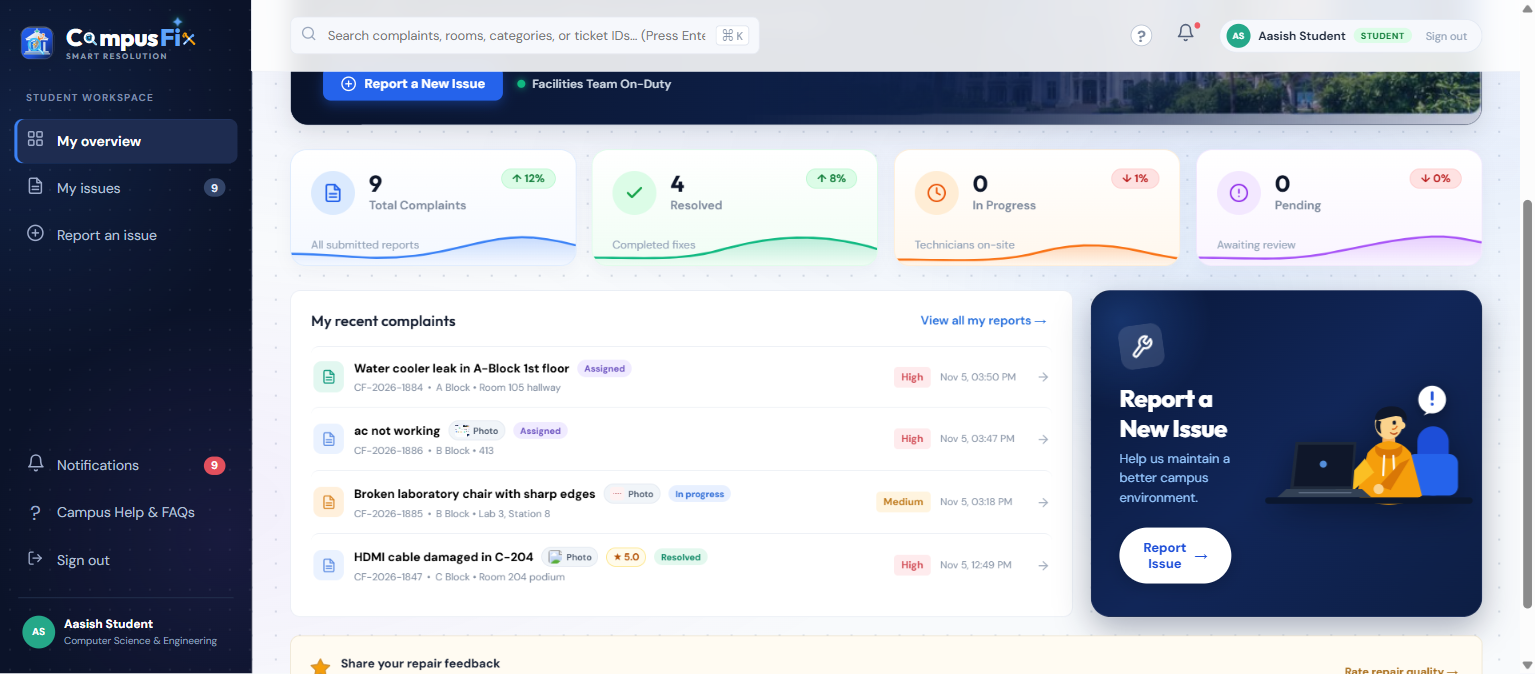
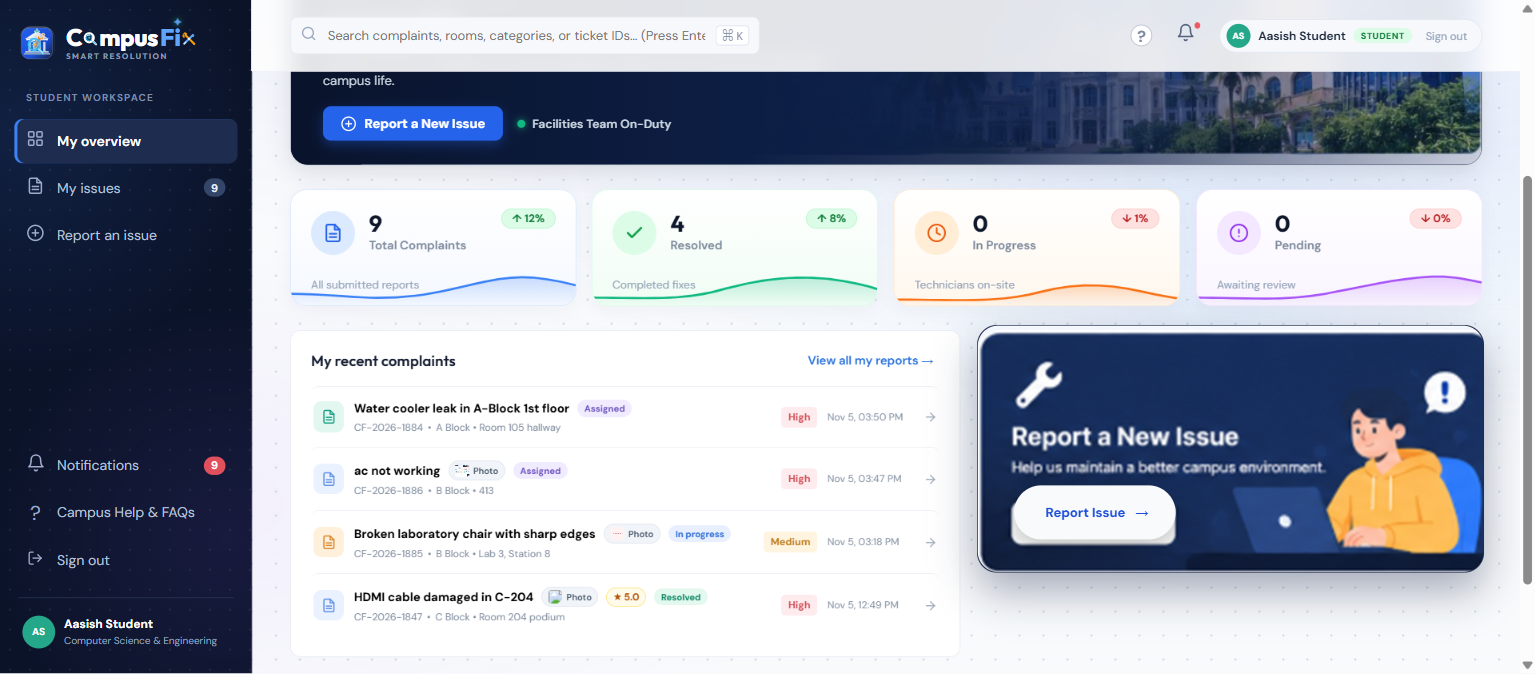
fix(ui): use authentic high-res artwork image for Report Issue hero card with interactive hotspot

diff --git a/client/src/extra.css b/client/src/extra.css
@@ -1785,129 +1785,96 @@ button.outline:hover {
 }
 
 /* =============================================================
-   REPORT A NEW ISSUE HERO CARD (WITH STUDENT VECTOR ILLUSTRATION)
+   REPORT A NEW ISSUE HERO CARD (HIGH-FIDELITY IMAGE SUITE)
    ============================================================= */
-.report-issue-hero-card {
-  background: linear-gradient(135deg, #091738 0%, #112658 50%, #0d1e44 100%);
-  border-radius: 20px;
-  padding: 26px 28px;
-  display: flex;
-  align-items: center;
-  justify-content: space-between;
-  gap: 20px;
-  box-shadow: 0 12px 32px rgba(9, 23, 56, 0.32);
-  border: 1px solid rgba(255, 255, 255, 0.1);
-  position: relative;
-  overflow: hidden;
-  min-height: 180px;
-}
-.report-issue-hero-card::before {
-  content: '';
-  position: absolute;
-  top: -60px;
-  left: -60px;
-  width: 180px;
-  height: 180px;
-  border-radius: 50%;
-  background: radial-gradient(circle, rgba(59, 130, 246, 0.25) 0%, transparent 70%);
-  pointer-events: none;
-}
-.report-issue-content {
-  position: relative;
-  z-index: 2;
-  flex: 1;
-  max-width: 320px;
-}
-.report-wrench-badge {
-  width: 44px;
-  height: 44px;
-  border-radius: 12px;
-  background: rgba(255, 255, 255, 0.12);
-  backdrop-filter: blur(8px);
+.student-grid {
   display: grid;
-  place-items: center;
-  color: #ffffff;
-  margin-bottom: 14px;
-  transform: rotate(-8deg);
+  grid-template-columns: 1.4fr 1.05fr !important;
+  gap: 20px !important;
+  align-items: start;
+}
+@media (max-width: 1050px) {
+  .student-grid {
+    grid-template-columns: 1fr !important;
+  }
+}
+
+.report-issue-image-card {
+  position: relative;
+  border-radius: 20px;
+  overflow: hidden;
+  cursor: pointer;
+  box-shadow: 0 12px 32px rgba(11, 26, 60, 0.25);
+  border: 1px solid rgba(255, 255, 255, 0.14);
+  transition: transform 0.28s cubic-bezier(0.16, 1, 0.3, 1), box-shadow 0.28s ease;
+  background: #091738;
+  display: block;
+  user-select: none;
+  width: 100%;
+}
+.report-issue-image-card:hover {
+  transform: translateY(-4px) scale(1.01);
+  box-shadow: 0 18px 42px rgba(11, 26, 60, 0.36);
+}
+.report-issue-image-card:focus-visible {
+  outline: 3px solid #60a5fa;
+  outline-offset: 3px;
+}
+.report-card-media-wrapper {
+  position: relative;
+  width: 100%;
+  aspect-ratio: 267 / 130;
+  overflow: hidden;
+  border-radius: 20px;
+}
+.report-card-img {
+  width: 100%;
+  height: 100%;
+  object-fit: cover;
+  display: block;
   transition: transform 0.3s ease;
 }
-.report-issue-hero-card:hover .report-wrench-badge {
-  transform: rotate(0deg) scale(1.08);
+.report-issue-image-card:hover .report-card-img {
+  transform: scale(1.02);
 }
-.report-hero-title {
-  font-size: 24px;
-  font-weight: 800;
-  font-family: 'Outfit', sans-serif;
-  color: #ffffff;
-  margin: 0 0 6px;
-  letter-spacing: -0.4px;
+.report-card-interactive-overlay {
+  position: absolute;
+  inset: 0;
+  pointer-events: none;
 }
-.report-hero-sub {
-  font-size: 13px;
-  color: #93c5fd;
-  margin: 0 0 20px;
-  line-height: 1.5;
-}
-.report-issue-pill-btn {
+.report-card-btn-hotspot {
+  position: absolute;
+  left: 7.2%;
+  bottom: 12.8%;
+  width: 32%;
+  height: 22%;
+  border-radius: 9999px;
   background: #ffffff;
   color: #1d4ed8;
   font-weight: 700;
   font-size: 13px;
-  padding: 11px 24px;
-  border-radius: 9999px;
-  border: none;
-  cursor: pointer;
   display: inline-flex;
   align-items: center;
-  gap: 8px;
-  box-shadow: 0 4px 16px rgba(0, 0, 0, 0.18);
-  transition: transform 0.2s ease, box-shadow 0.2s ease, background 0.2s ease;
+  justify-content: center;
+  gap: 6px;
+  box-shadow: 0 4px 14px rgba(0, 0, 0, 0.18);
+  transition: background 0.2s ease, transform 0.2s ease, box-shadow 0.2s ease;
 }
-.report-issue-pill-btn:hover {
+.report-issue-image-card:hover .report-card-btn-hotspot {
   background: #f8fafc;
-  transform: translateY(-2px);
-  box-shadow: 0 8px 24px rgba(0, 0, 0, 0.25);
+  transform: translateY(-1px);
+  box-shadow: 0 6px 18px rgba(0, 0, 0, 0.25);
 }
-.report-issue-pill-btn .pill-arrow {
+.report-card-btn-hotspot .hotspot-arrow {
   transition: transform 0.2s ease;
 }
-.report-issue-pill-btn:hover .pill-arrow {
+.report-issue-image-card:hover .hotspot-arrow {
   transform: translateX(4px);
 }
-
-.report-illustration-wrap {
-  width: 240px;
-  height: 160px;
-  display: flex;
-  align-items: center;
-  justify-content: center;
-  flex-shrink: 0;
-  position: relative;
-  z-index: 2;
-}
-.student-illu-svg {
-  width: 100%;
-  height: 100%;
-  display: block;
-  filter: drop-shadow(0 6px 16px rgba(0, 0, 0, 0.35));
-}
-.illu-bubble-group {
-  animation: cfBubbleFloat 3s ease-in-out infinite alternate;
-}
-@keyframes cfBubbleFloat {
-  0% { transform: translateY(0); }
-  100% { transform: translateY(-4px); }
-}
-
-@media (max-width: 768px) {
-  .report-issue-hero-card {
-    flex-direction: column;
-    align-items: flex-start;
-  }
-  .report-illustration-wrap {
-    align-self: center;
-    width: 200px;
-    height: 130px;
+@media (max-width: 600px) {
+  .report-card-btn-hotspot {
+    font-size: 11px;
+    gap: 4px;
   }
 }
 

diff --git a/client/src/main.jsx b/client/src/main.jsx
@@ -1698,21 +1698,32 @@ function StudentIllustrationSvg() {
 
 function ReportIssueCard({ onReport }) {
   return (
-    <section className="report-issue-hero-card">
-      <div className="report-issue-content">
-        <div className="report-wrench-badge">
-          <Icons.wrench size={24} />
+    <article
+      className="report-issue-image-card"
+      onClick={onReport}
+      role="button"
+      tabIndex={0}
+      onKeyDown={(e) => {
+        if (e.key === 'Enter' || e.key === ' ') {
+          e.preventDefault();
+          onReport();
+        }
+      }}
+      title="Click to report a new campus issue"
+    >
+      <div className="report-card-media-wrapper">
+        <img
+          src="/assets/report-card-hires.png"
+          alt="Report a New Issue - Help us maintain a better campus environment"
+          className="report-card-img"
+        />
+        <div className="report-card-interactive-overlay">
+          <span className="report-card-btn-hotspot">
+            <span>Report Issue</span> <span className="hotspot-arrow">→</span>
+          </span>
         </div>
-        <h3 className="report-hero-title">Report a New Issue</h3>
-        <p className="report-hero-sub">Help us maintain a better campus environment.</p>
-        <button className="report-issue-pill-btn" onClick={onReport}>
-          <span>Report Issue</span> <span className="pill-arrow">→</span>
-        </button>
       </div>
-      <div className="report-illustration-wrap">
-        <StudentIllustrationSvg />
-      </div>
-    </section>
+    </article>
   );
 }
 
